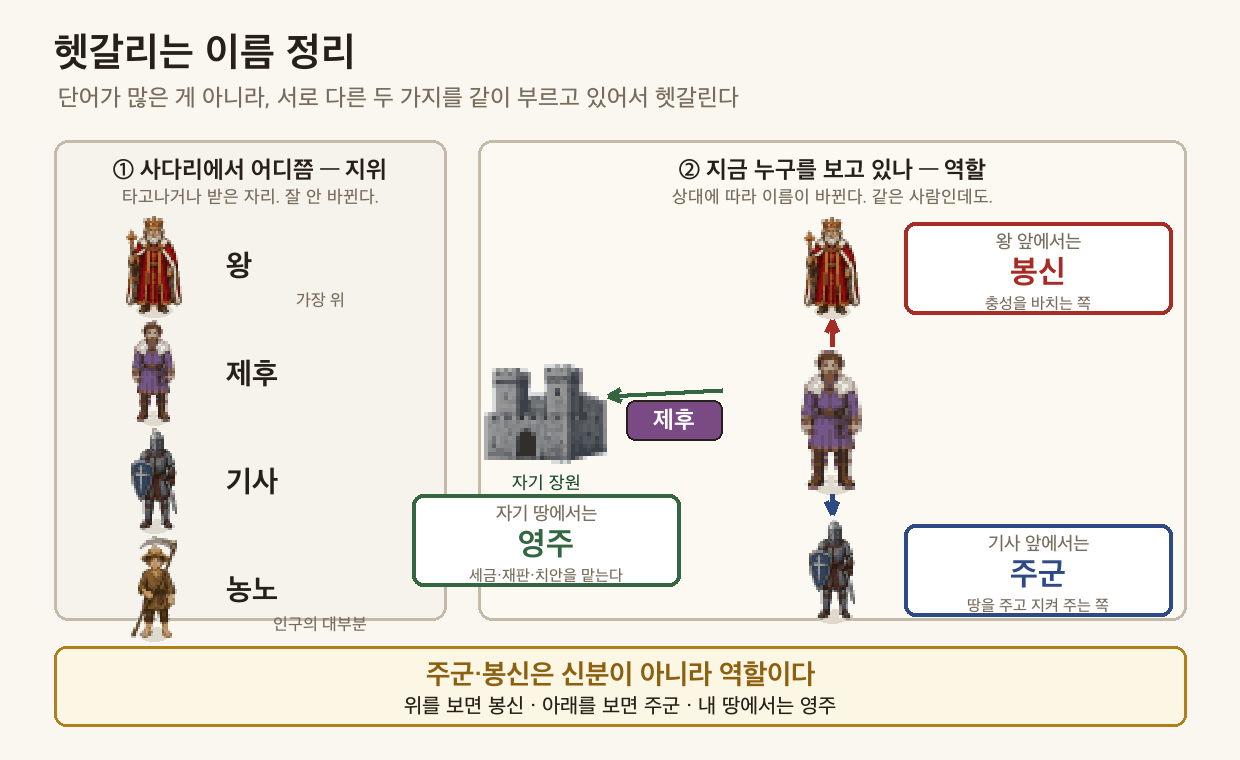
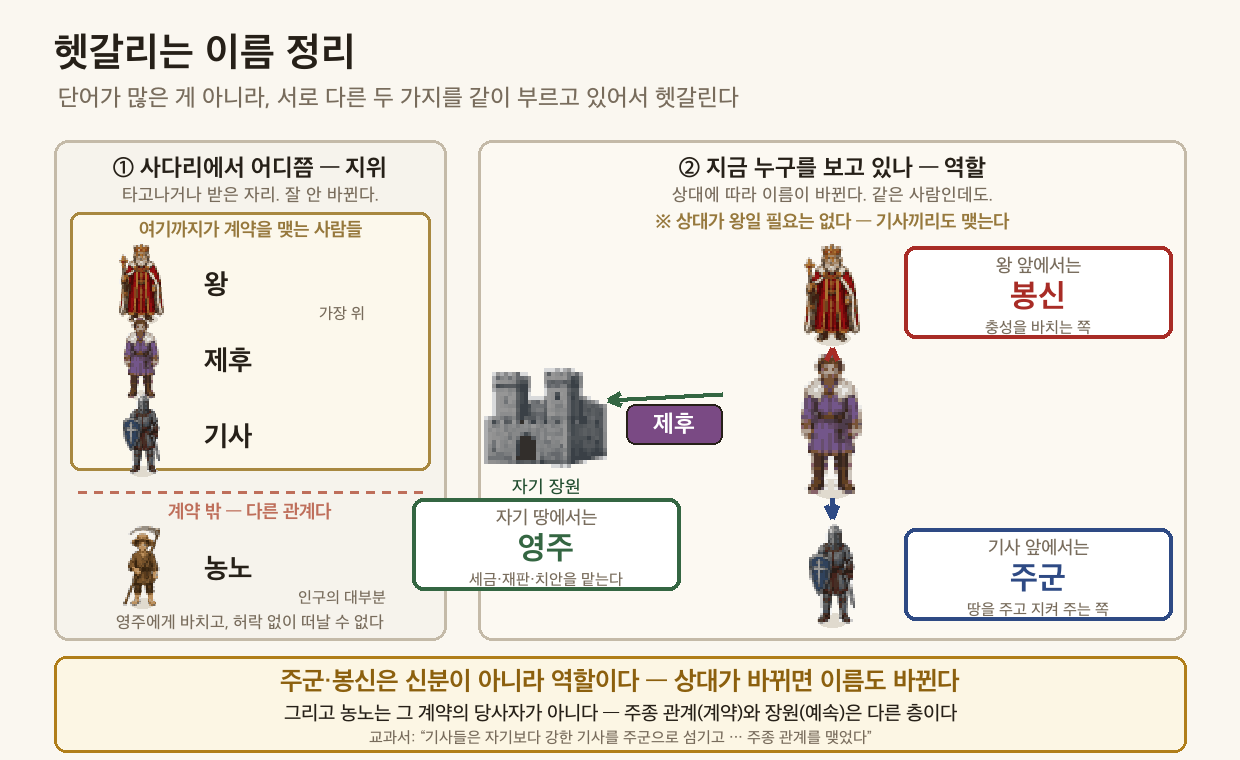
역사① 3-3-1 — 주종 관계(계약)와 장원(예속)을 층으로 분리 (천대현 실전 관찰)
학생 질문 둘에서 출발: ① '왕 아래여야 봉신인가' ② '기사와 농노도 주종 관계인가'
교과서 원문으로 판정:
· ① 아니다 — '기사들은 자기보다 강한 기사를 주군으로 섬기고'(p.90). 왕이 없어도 성립한다.
· ② 아니다 — 주종은 '계약을 바탕으로 … 한쪽이 의무를 안 지키면 깨질 수 있었다'(p.90),
     장원은 '바치고 … 허락 없이 떠날 수 없었다'(p.91). 한쪽에만 '계약'과 '깨진다'가 있다.

🔴 우리 학습지가 그 오해를 만들고 있었다:
· 활동 1이 「계약서를 완성하라」 한 표에 주군-봉신과 영주-농노를 같이 담았다.
  발문도 '주군과 봉신이 계약을 맺는다' 하나였다 → 농노가 계약 당사자로 읽힌다.
· 도식 ①이 왕·제후·기사·농노를 한 사다리에 세워 농노도 같은 체계로 보였다.

조치:
· 도식 재작성 — 왕·제후·기사를 '계약을 맺는 사람들' 박스로 묶고, 점선 아래 '계약 밖 — 다른 관계'로
  농노를 분리. 우측 부제에 '상대가 왕일 필요는 없다'. 하단 띠에 교과서 근거 한 줄.
· 활동 1을 ①주종(계약이다) / ②장원(계약이 아니다) 두 표로 분리. act 인덱스는 불변(7~10 그대로).
· 정답편 교사 콜아웃 순서 교정 — 종전엔 '둘이 같은 보호↔대가 구조'를 먼저 말했다.
  ⚠ 닮음을 먼저 주면 학생이 둘을 묶는다. 차이를 먼저 세우고 닮음은 그 뒤에.

Claude-Session: https://claude.ai/code/session_01WENst2cudxyR6rXxwWSCeM

Changed region(s): [[0.0306, 0.1816, 0.95, 0.9987], [0.2452, 0.3632, 0.3065, 0.4237]]

diff --git a/worksheets/3-3-1_봉건사회성립_개념편.html b/worksheets/3-3-1_봉건사회성립_개념편.html
@@ -543,7 +543,7 @@ table:has(.ox-group) td:first-child { width: 46px; text-align: center; color: #6
 <div class="ws-tb"><div class="ws-tb-tag">📕 교과서 91쪽 · 봉건 사회 구조 도식</div><div class="ws-tb-see">위에서 우리가 그린 도식과 나란히 놓고 보자.</div><div class="ws-tb-ask">교과서 도식에서 <strong>왕과 화살표로 바로 이어진</strong> 사람은 누구인가? <input type="text" class="blank-input activity-input no-score" data-id="act-2" data-label="교과서 91쪽에서 찾기 — 교과서 도식에서 왕과 화살표로 바로 이어진 사람은 누구인가?" style="width:200px" placeholder=""></div></div>
 <br>
 <br>
-<figure class="ws-fig"><img src="images/3-3-1_이름정리.png" alt="**왕·제후·기사·농노는 지위**(사다리에서 어디쯤)이고 **주군·봉신은 역할**(지금 누구를 보고 있나)이다. 그래서 같은 제후 한 사람이 상대에 따라 봉신·주군·영주로 불린다." loading="lazy"><figcaption><strong>왕·제후·기사·농노는 지위</strong>(사다리에서 어디쯤)이고 <strong>주군·봉신은 역할</strong>(지금 누구를 보고 있나)이다. 그래서 같은 제후 한 사람이 상대에 따라 봉신·주군·영주로 불린다.</figcaption></figure>
+<figure class="ws-fig"><img src="images/3-3-1_이름정리.png" alt="**왕·제후·기사·농노는 지위**이고 **주군·봉신은 역할**이다 — 상대가 바뀌면 이름도 바뀐다. ⚠ 상대가 왕일 필요는 없고(기사끼리도 맺는다), **농노는 그 계약의 당사자가 아니다.**" loading="lazy"><figcaption><strong>왕·제후·기사·농노는 지위</strong>이고 <strong>주군·봉신은 역할</strong>이다 — 상대가 바뀌면 이름도 바뀐다. ⚠ 상대가 왕일 필요는 없고(기사끼리도 맺는다), <strong>농노는 그 계약의 당사자가 아니다.</strong></figcaption></figure>
 <br>
 <br>
 <h2>📖 3단계: 땅 위의 삶 — 장원과 농노</h2>
@@ -647,12 +647,20 @@ table:has(.ox-group) td:first-child { width: 46px; text-align: center; color: #6
 </div></details>
 <br>
 <h2>✏ 활동 1 — 계약서를 완성하라</h2>
-<blockquote>주군과 봉신이 계약을 맺는다. 각자 상대에게 <strong>무엇을 주기로</strong> 했는지 써 보자.</blockquote>
+<blockquote>아래 넷은 <strong>같은 종류가 아니다.</strong> 위 둘은 서로 약속한 <strong>계약</strong>이고, 아래 둘은 땅에 매인 관계다. 채우면서 그 차이가 보이는지 확인하자.</blockquote>
+<br>
+<p><strong>① 주종 관계 — 계약이다</strong> (서로 의무가 있고, 한쪽이 안 지키면 깨진다)</p>
 <br>
 <table class="act-table">
 <tr><td>누가</td><td>상대에게 주는 것</td></tr>
 <tr><td>주군 → 봉신</td><td><input type="text" class="blank-input activity-input no-score" data-id="act-7" data-label="주군 → 봉신" style="width:200px" placeholder=""></td></tr>
 <tr><td>봉신 → 주군</td><td><input type="text" class="blank-input activity-input no-score" data-id="act-8" data-label="봉신 → 주군" style="width:200px" placeholder=""></td></tr>
+</table>
+<br>
+<p><strong>② 장원 — 계약이 아니다</strong> (농노는 바치고, 허락 없이 떠날 수 없다)</p>
+<br>
+<table class="act-table">
+<tr><td>누가</td><td>상대에게 주는 것</td></tr>
 <tr><td>영주 → 농노</td><td><input type="text" class="blank-input activity-input no-score" data-id="act-9" data-label="영주 → 농노" style="width:200px" placeholder=""></td></tr>
 <tr><td>농노 → 영주</td><td><input type="text" class="blank-input activity-input no-score" data-id="act-10" data-label="농노 → 영주" style="width:200px" placeholder=""></td></tr>
 </table>
